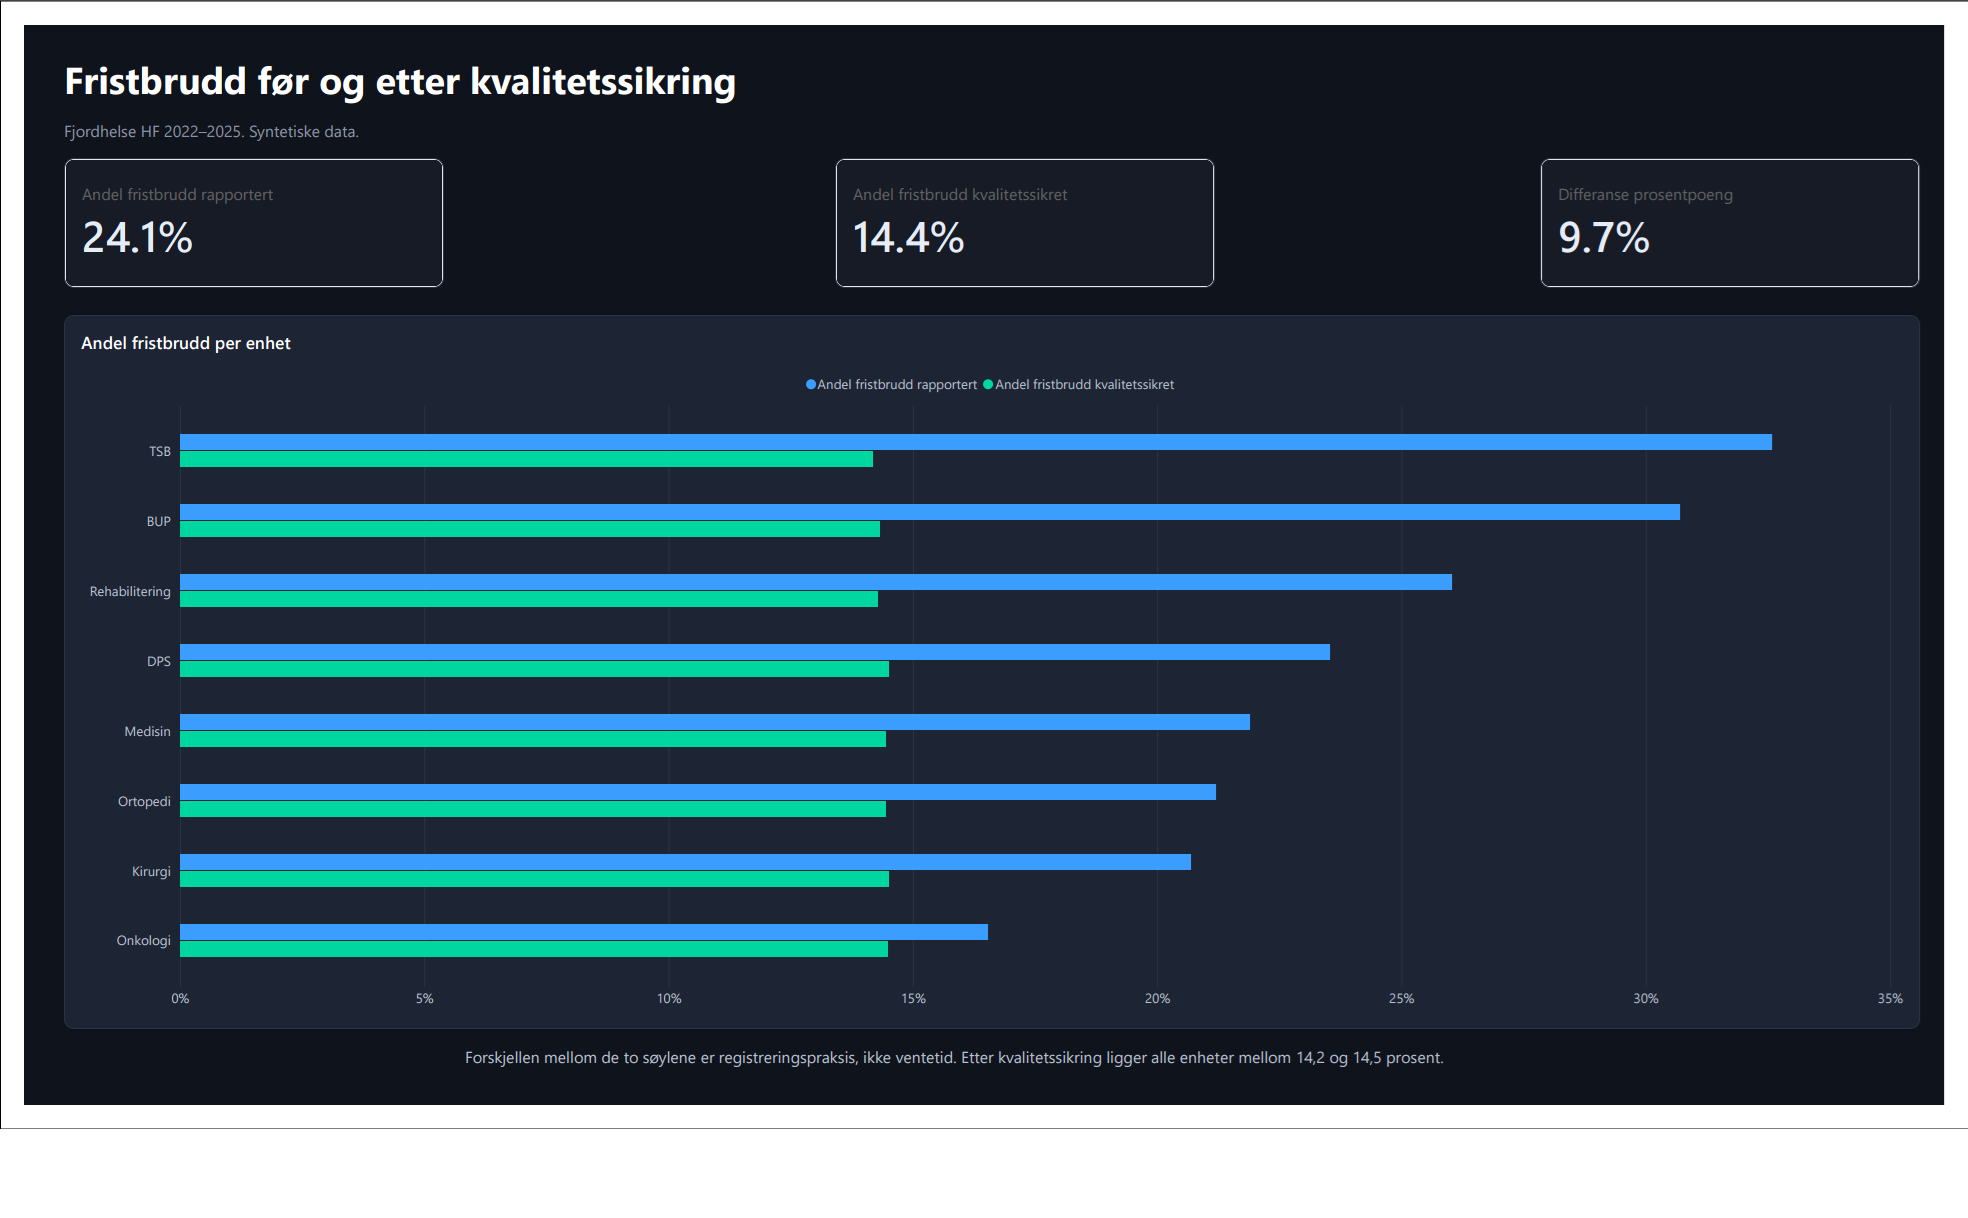
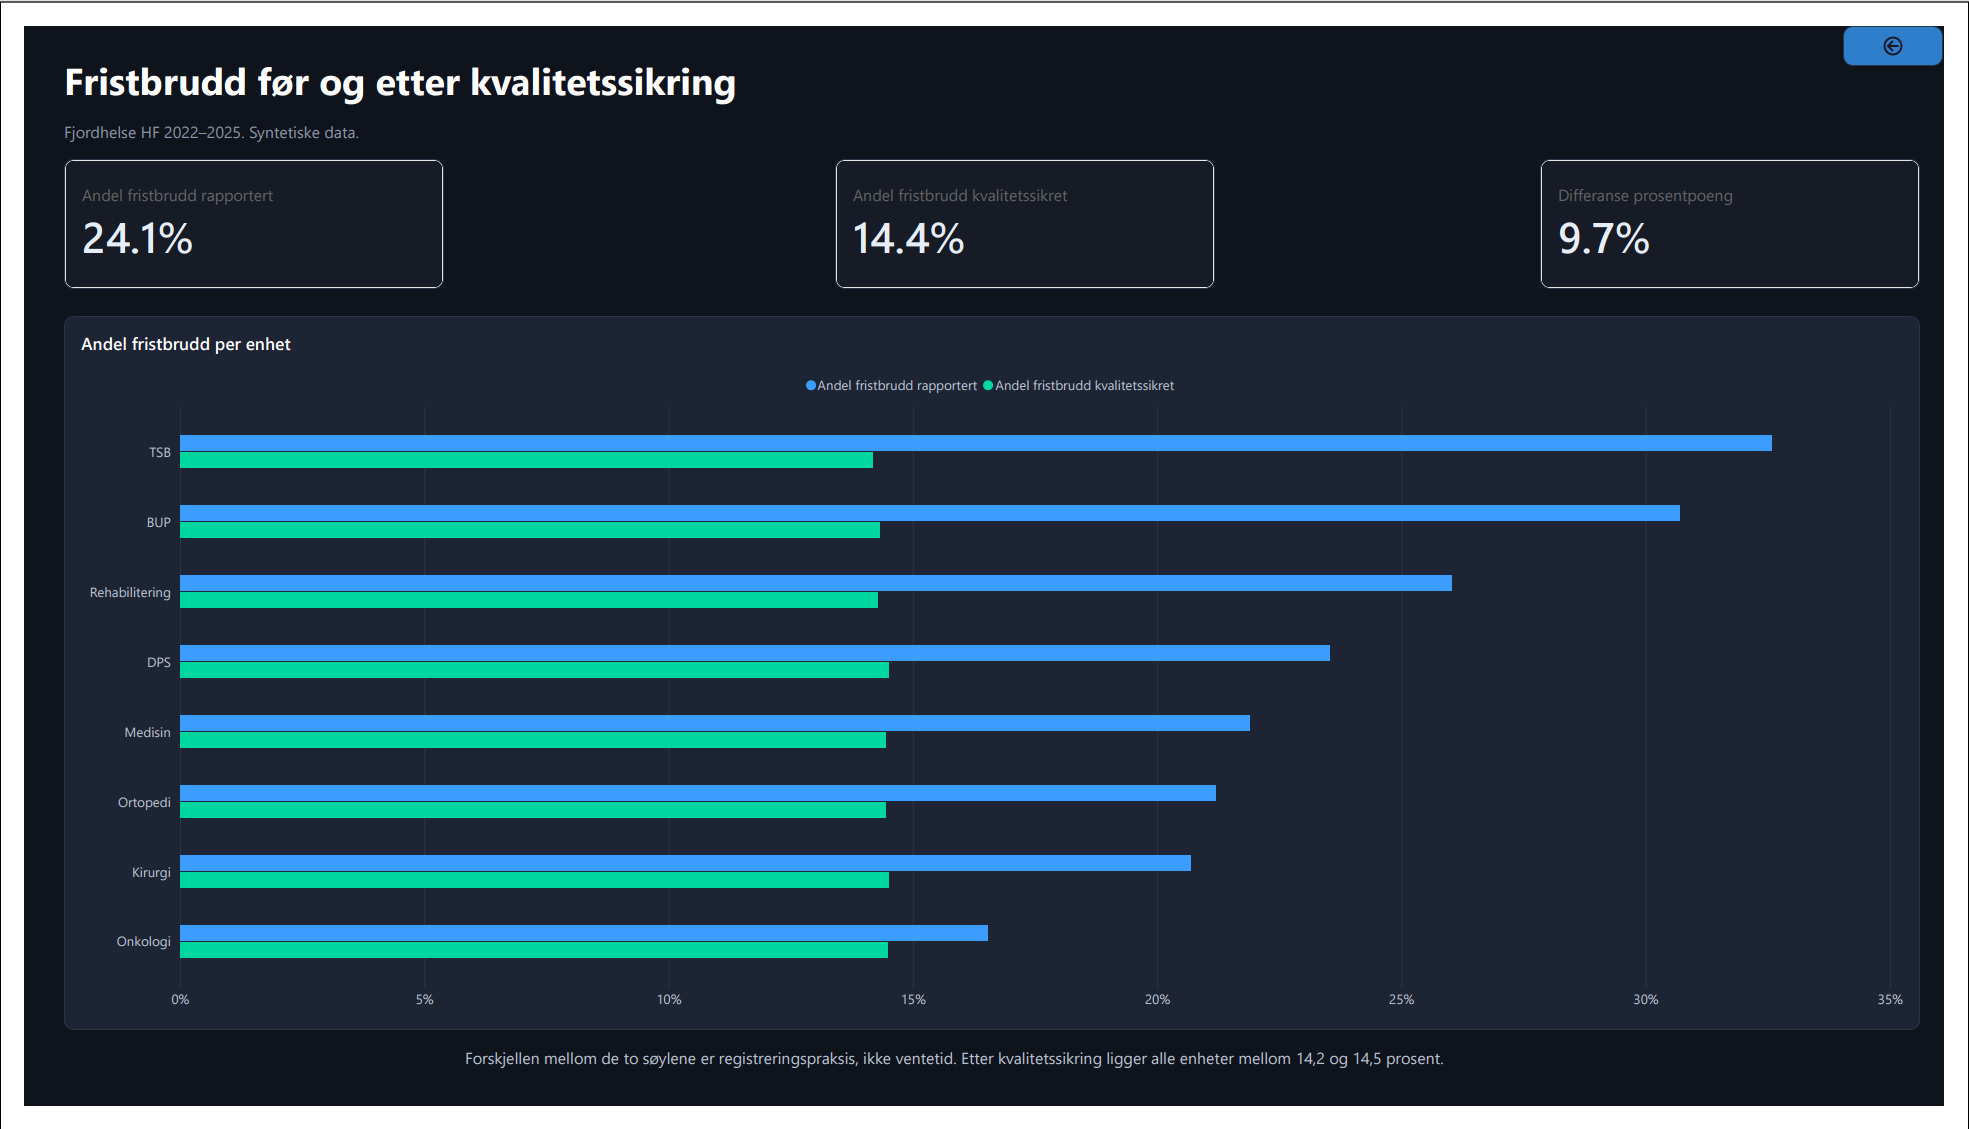
Ny README

diff --git a/README.md b/README.md
@@ -1,146 +1,206 @@
-# Datakvalitet i et fagsystem
+# Fjordhelse — datakvalitet i et fagsystem
 
-Porteføljeprosjekt. Viser hva bestemte registreringsfeil gjør med et
-styringstall, og hvordan feilene kan måles, testes og korrigeres.
+**Ni av ti fristbrudd finnes ikke.**
 
-**Dataene er syntetiske.** Det finnes ingen pasienter bak radene. De genereres
-av `src/generer_data.py` med fast seed, og feilene er lagt inn med vilje og i
-kjent omfang. Fasiten ligger i `data/raw/fasit.json`.
+Rapportert andel fristbrudd i Fjordhelse HF er 24,1 %. Etter kvalitetssikring av registreringsdataene er den 14,4 %. Forskjellen — 9,7 prosentpoeng, 42 489 henvisninger — er registreringspraksis, ikke ventetid.
 
-Dette er ikke en produksjonsløsning.
+Rangeringen mellom enhetene snur nesten fullstendig. TSB går fra å være verst (32,6 %) til å være best (14,2 %). Onkologi går fra best (16,5 %) til å ligge på nivå med de dårligste (14,5 %). En styringsbeslutning tatt på det rapporterte tallet ville pekt på feil enhet.
+
+![Oversikt](docs/bilder/side0_oversikt.png)
 
 ---
 
-## Funnet
+## Hva dette er
 
-Andelen fristbrudd i det fiktive foretaket Fjordhelse HF:
+Et porteføljeprosjekt som viser hele kjeden fra rådata til styringsinformasjon: syntetisk datagenerering, transformasjon i dbt, testing, semantisk modell og rapport i Power BI.
 
-| | Andel fristbrudd |
+Dataene er syntetiske. Det finnes ingen pasienter bak radene, og Fjordhelse HF finnes ikke. Feilene i datasettet er lagt inn med vilje og i kjent omfang, slik at analysen kan kontrolleres mot en fasit.
+
+**Dette er ikke en analyse av et virkelig foretak.** Tallene er konstruert for å vise en mekanisme, ikke for å beskrive en tilstand.
+
+---
+
+## Problemstillingen
+
+Et fagsystem inneholder 426 484 henvisninger fordelt på åtte enheter over perioden 2022–2025. Uttrekksdato er 15.01.2026.
+
+Seks feiltyper er lagt inn i registreringen:
+
+| Feiltype | Hva den gjør |
 |---|---|
-| Slik fagsystemet rapporterer | **24,1 %** |
-| Etter kvalitetssikring | **14,4 %** |
+| Duplikater | Samme henvisning registrert flere ganger |
+| Manglende sluttdato | Forløpet er avsluttet, men `ventetid_slutt` er aldri registrert |
+| Prioritet ikke vurdert | Feltet står på systemets standardverdi |
+| Avvikende enhetsnavn | Samme enhet skrevet på flere måter |
+| Tvetydig diagnosekode | Kode som har byttet betydning i kodeverket |
+| Årsskifte | Forløp som krysser årsskiftet og telles i feil periode |
 
-Forskjellen er 42 489 henvisninger. 40 886 av dem skyldes at «ventetid slutt»
-aldri ble registrert — pasienten er behandlet, men systemet regner forløpet
-som ventende. De øvrige 1 603 er duplikater fra overføring mellom enheter.
-
-Men hovedfunnet er ikke totalen. Det er rangeringen:
-
-| Enhet | Rapportert | Rang | Kvalitetssikret | Rang |
-|---|---|---|---|---|
-| TSB | 32,6 % | 1 (verst) | 14,2 % | 8 (best) |
-| BUP | 30,7 % | 2 | 14,3 % | 6 |
-| Rehabilitering | 26,0 % | 3 | 14,3 % | 6 |
-| DPS | 23,5 % | 4 | 14,5 % | 1 |
-| Medisin | 21,9 % | 5 | 14,4 % | 4 |
-| Ortopedi | 21,2 % | 6 | 14,4 % | 4 |
-| Kirurgi | 20,7 % | 7 | 14,5 % | 1 |
-| Onkologi | 16,5 % | 8 (best) | 14,5 % | 1 |
-
-Rangeringen snur nesten fullstendig. Enheten som ser verst ut er den som
-registrerer dårligst, ikke den som behandler seinest. Etter kvalitetssikring
-ligger alle åtte enhetene mellom 14,2 og 14,5 prosent — forskjellen mellom dem
-var aldri en forskjell i tjeneste.
-
-**Konsekvensen for styring:** et fristbruddtall brukt til å sammenligne enheter
-måler registreringspraksis minst like mye som ventetid. Brukes det uten
-kvalitetssikring, belønnes de enhetene som registrerer godt og straffes de som
-har minst merkantil støtte.
+Spørsmålet rapporten svarer på: **hvor mye av det rapporterte fristbruddet skyldes faktisk ventetid, og hvor mye skyldes hvordan det er registrert?**
 
 ---
 
-## De seks innebygde feilene
+## Metode
 
-| # | Feil | Kvalitetsdimensjon | Hvorfor den er realistisk |
-|---|---|---|---|
-| 1 | «Prioritet» utfylt med forvalgt verdi | Validitet | Feltet er obligatorisk, så det er alltid utfylt. Obligatorisk er ikke det samme som vurdert. |
-| 2 | Diagnosekode skifter betydning | Entydighet | R51 betyr noe annet etter revisjonen 01.07.2024. Koden alene er ikke en nøkkel. |
-| 3 | Duplikat ved overføring | Unikhet | Henvisningen opprettes på nytt i mottakende enhet uten at den første lukkes. |
-| 4 | «Ventetid slutt» ikke registrert | Kompletthet | Gir fristbrudd som ikke er reelle. Dokumentert problem i norsk spesialisthelsetjeneste. |
-| 5 | Registreringer klumper seg i romjula | Aktualitet | Tidspunktet sier mer om rapporteringsfrister enn om forløpet. |
-| 6 | Enhet skifter navn ved omorganisering | Konsistens | Koden er uendret. Kobling på navn mister radene. |
+### Definisjon av kvalitetssikret fristbrudd
 
-Feilratene skaleres per enhet. En liten enhet med lite merkantil støtte
-registrerer dårligere enn en enhet med tett forløpsoppfølging. Det er den
-antakelsen som gjør at rangeringen snur.
+Duplikater fjernes. En henvisning uten registrert sluttdato regnes ikke som fristbrudd dersom det finnes et registreringstidspunkt før fristen.
 
----
+Definisjonen er bevisst konservativ. Den krever bevis for kontakt før fristen, ikke fravær av bevis for det motsatte. Den fanger derfor ikke opp forløp der all registrering uteble — de teller fortsatt som fristbrudd.
 
-## Arkitektur
+### Kontroll mot fasit
 
-```
-src/generer_data.py      syntetisk datasett, fast seed, fasit.json med sha256
-        |
-data/raw/henvisninger.csv        426 484 rader
-        |
-src/last_inn_raa.py      inn i DuckDB som raa.henvisninger
-        |
-dbt/                     staging -> intermediate -> marts
-   staging               typing og opprydding, ingen forretningslogikk
-   intermediate          ett flagg per kjent feil, én rad per henvisning
-   marts                 fakta med fristbrudd regnet på to måter
-        |
-src/eksporter_mart.py    Parquet + CSV til Power BI
-        |
-powerbi/                 .pbip, semantisk modell som TMDL
-```
+`data/raw/fasit.json` inneholder det faktiske antallet innlagte feil per type, sammen med `sha256` av datafila. Analysen leser aldri fasiten. Den gjenskaper feilratene fra dataene alene, og resultatet sammenlignes med fasiten etterpå.
 
-Skillet mellom `intermediate` og `marts` er bevisst: først slås det fast hva
-som er galt med raden, deretter regnes tallet to ganger. Blandes stegene, kan
-ingen etterprøve forskjellen.
-
-## Testene
-
-41 tester kjører ved hvert bygg. Fire av dem er skrevet for dette prosjektet:
-
-- `assert_kvalitetssikring_reduserer_fristbrudd` — kvalitetssikring skal aldri
-  gi flere fristbrudd enn rårapporteringen. Slår den ut, har logikken snudd
-  fortegn.
-- `assert_ventetid_ikke_negativ` — ventetid slutt kan ikke ligge før
-  vurderingsdatoen.
-- `assert_ett_forlop_per_pasient_og_frist` — etter deduplisering skal én
-  pasient ha ett forløp per mottaksdato og frist.
-- `assert_alle_enheter_har_data` — en enhet som forsvinner ut av fakta er
-  nesten alltid en brutt nøkkel, ikke en enhet uten aktivitet.
-
-`assert_ventetid_ikke_negativ` fant en reell feil i generatoren under
-utviklingen: forløp som ikke rakk å bli ferdig innen uttrekksdatoen fikk
-sluttdatoen klippet til periodeslutt, noe som ga negativ ventetid for
-henvisninger mottatt i desember. Feilen er rettet ved at slike forløp regnes
-som pågående. Testen er beholdt.
+Det er kontrollen på at metoden virker — ikke at tallene er pene.
 
 ---
 
-## Slik kjører du det
+## Resultater
 
-```
-1_INSTALLER.bat     installerer Python-pakker, 1-3 minutter
-2_BYGG.bat          genererer data, bygger modellen, kjører 41 tester
-```
+| Enhet | Rapportert | Kvalitetssikret | Differanse |
+|---|---:|---:|---:|
+| TSB | 32,6 % | 14,2 % | 18,4 pp |
+| BUP | 30,7 % | 14,3 % | 16,4 pp |
+| Rehabilitering | 26,0 % | 14,3 % | 11,7 pp |
+| DPS | 23,5 % | 14,5 % | 9,0 pp |
+| Medisin | 21,9 % | 14,4 % | 7,5 pp |
+| Ortopedi | 21,2 % | 14,4 % | 6,8 pp |
+| Kirurgi | 20,7 % | 14,5 % | 6,2 pp |
+| Onkologi | 16,5 % | 14,5 % | 2,0 pp |
+| **Totalt** | **24,1 %** | **14,4 %** | **9,7 pp** |
 
-Forventet på slutten:
+Etter kvalitetssikring ligger samtlige enheter mellom 14,2 og 14,5 prosent. Spredningen på 16 prosentpoeng i det rapporterte tallet er i sin helhet registreringspraksis.
 
-```
-Done. PASS=41 WARN=0 ERROR=0 SKIP=0
-```
+De psykiske helsevernenhetene (TSB, BUP, DPS) og rehabilitering har lengst forløp og flest kontaktpunkter per pasient, og dermed flest anledninger til at en sluttregistrering uteblir. Onkologi har korte, tett oppfulgte forløp og nesten ingen avvik.
 
-Rådatafila på 100 MB ligger ikke i repoet. Den gjenskapes eksakt av
-generatoren, og `fasit.json` inneholder sha256 slik at gjenskapingen kan
-kontrolleres.
+![Fristbrudd per enhet](docs/bilder/side1_fristbrudd.png)
 
 ---
 
-## Kilder og lisens
+## Teknisk oppbygning
 
-Ingen eksterne data. Alt er generert.
+```
+data/raw/          syntetisk datasett + fasit.json
+dbt/               staging → intermediate → marts
+data/mart/         parquet + csv, klar for Power BI
+powerbi/           .pbip-prosjekt og tema.json
+docs/bilder/       skjermbilder av rapporten
+dokumentasjon/     funn og anbefalinger
+```
 
-Feilmønstrene er ikke oppdiktet. Ikke-reelle fristbrudd som følge av manglende
-registrering av «ventetid slutt», og variasjon i registreringspraksis mellom
-helseforetak, er begge dokumenterte problemstillinger i norsk
-spesialisthelsetjeneste.
+### Stack
+
+Python for datagenerering, dbt med DuckDB for transformasjon, Power BI Desktop i `.pbip`-format for rapport. Alt versjonskontrollert som tekst — også den semantiske modellen, som ligger i TMDL og dermed kan leses i en diff.
+
+### Datamodell
+
+Stjerneskjema med to faktatabeller på ulik granularitet:
+
+- `fact_henvisning` — én rad per henvisning (426 484 rader)
+- `fact_datakvalitet` — aggregert per enhet, måned og kvalitetsdimensjon
+
+Dimensjoner: `dim_enhet`, `dim_periode`, `dim_diagnose`, `dim_dato`.
+
+**To datotabeller.** `dim_periode` betjener `fact_datakvalitet`, som er aggregert per måned. `dim_dato` er en daglig, sammenhengende kalender (1 461 rader, 2022–2025) markert som date table, og betjener `fact_henvisning` på `henvisning_mottatt`. Tidsintelligens krever daglig granularitet — en månedstabell er ikke sammenhengende, og `SAMEPERIODLASTYEAR` returnerer tomt mot den.
+
+`dim_diagnose` er bevisst frakoblet. `diagnose_kode` er ikke unik: koden R51 finnes to ganger, gyldig til 30.06.2024 som «Hodepine» og fra 01.07.2024 som «Hodepine, uspesifisert». Oppslaget gjøres i dbt på kode *og* dato, ikke i den semantiske modellen.
+
+### Testing
+
+41 dbt-tester kjører ved hver build. I tillegg til generiske tester på nøkler og nullverdier finnes fire domenespesifikke:
+
+- `assert_alle_enheter_har_data` — ingen enhet forsvinner ut av datasettet
+- `assert_ett_forlop_per_pasient_og_frist` — ingen dupliserte forløp etter deduplisering
+- `assert_kvalitetssikring_reduserer_fristbrudd` — kvalitetssikret tall er aldri høyere enn rapportert
+- `assert_ventetid_ikke_negativ` — sluttdato kommer aldri før startdato
+
+### Semantisk modell
+
+Målene ligger i en egen tabell `_Mål`. Utvalgte definisjoner:
+
+**Andel avvik** — andeler kan ikke summeres. Målet deler summert teller på summert nevner:
+
+```dax
+Andel avvik =
+DIVIDE (
+    SUM ( fact_datakvalitet[antall_avvik] ),
+    SUM ( fact_datakvalitet[antall_rader] )
+)
+```
+
+**Simulering** — en what-if-parameter (0–100 %, steg 5 %) lar leseren stille spørsmålet «hva om sluttregistreringen forbedres?»:
+
+```dax
+Andel fristbrudd rapportert simulert =
+VAR Forbedring = [Forbedring i registrering Value]
+VAR IkkeReelle = [Fristbrudd rapportert] - [Fristbrudd kvalitetssikret]
+VAR NyeFristbrudd = [Fristbrudd rapportert] - ( IkkeReelle * Forbedring )
+RETURN
+DIVIDE ( NyeFristbrudd, [Antall henvisninger] )
+```
+
+Parameteren endrer ikke dataene. Den endrer forutsetningen målet regner med. Ved 0 % gir målet 24,1 %, ved 100 % gir det 14,4 % — grensene faller ut av logikken, de er ikke hardkodet.
+
+---
+
+## Rapporten
+
+Fire sider:
+
+| Side | Innhold |
+|---|---|
+| **Oversikt** | KPI-fliser med endring mot i fjor, sparklines per enhet, what-if-simulering |
+| **Fristbrudd** | Rangering per enhet, før og etter kvalitetssikring |
+| **Datakvalitet** | Matrise over seks feiltyper, tidsserie for manglende sluttregistrering |
+| **Metode og forbehold** | Definisjoner, datagrunnlag, begrensninger |
+
+![Datakvalitet](docs/bilder/side2_datakvalitet.png)
+
+Mørkt tema definert i `powerbi/tema.json`. Blå er alltid rapportert, grønn er alltid kvalitetssikret, rød er forbeholdt avvik. Fargene betyr det samme på alle fire sidene.
+
+---
+
+## Kjøre prosjektet
+
+```
+1_INSTALLER.bat
+2_BYGG.bat
+```
+
+Første fil installerer avhengigheter, andre genererer data og kjører hele dbt-pipelinen. Forventet resultat: `Done. PASS=41 WARN=0 ERROR=0 SKIP=0`.
+
+Åpne deretter `powerbi/Fjordhelse_Datakvalitet.pbip`. Parameteren `MartMappe` i Power Query må peke til `data/mart/` med skråstrek på slutten.
+
+Krever Python 3.10+ og Power BI Desktop med `.pbip`-format aktivert under Preview features.
+
+---
+
+## Fire feil som formet prosjektet
+
+Dokumentert fordi de er mer opplysende enn det som gikk bra.
+
+**`date_trunc` returnerer timestamp.** I DuckDB gir `date_trunc('month', d)` en timestamp, mens `cast(d as date)` gir en date. Samme kolonnenavn i to tabeller, to ulike typer, og relasjonen lar seg ikke opprette. Løses med to trinn i Power Query: Date/Time først, deretter Date.
+
+**Summerte andeler.** `andel_avvik_pst` summert over måneder ga 26 744 %. Andeler er ikke additive. Et mål må regne fra teller og nevner, ikke fra ferdig beregnede andeler.
+
+**Høyrekutting.** Tidsserien for manglende sluttregistrering steg mot 100 % gjennom høsten 2025. Ingen dbt-test fanget det, fordi dataene er korrekte: forløp mottatt sent er ikke ferdige på uttrekksdatoen. Manglende sluttdato er der reell, ikke en registreringsfeil. Tidsserien er derfor avgrenset til juni 2025, med det opplyst i undertittelen.
+
+En test kontrollerer at dataene er som forventet. En graf viser hva de faktisk betyr. Denne feilen kunne bare oppdages visuelt.
+
+**`DATESINPERIOD` fra månedsslutt.** `DATESINPERIOD(dim_dato[Date], DATE(2025,6,30), -1, MONTH)` returnerer 31.05–30.06 — altså én dag fra mai. Undertittelen sa «juni 2025». Erstattet med et filter på `maned_start`, som gir nøyaktig den måneden det står at det er.
+
+---
 
 ## Forbehold
 
-Dette er et porteføljeprosjekt på syntetiske data, ikke en produksjonsløsning
-og ikke en analyse av et virkelig foretak. Tallene er konstruert for å vise en
-mekanisme, ikke for å beskrive en tilstand.
+Med ekte data ville `registrert_tidspunkt` alene ikke vært godt nok bevis på pasientkontakt. Et fagsystem har flere spor — kontaktregistreringer, notater, prosedyrekoder — og en reell kvalitetssikring bør bruke dem samlet.
+
+Sammenligningen mot samme måned i fjor er tatt med for å vise tidsintelligens i modellen. På et syntetisk datasett med fast seed er den bevegelsen støy, ikke et funn.
+
+Definisjonen av kvalitetssikret fristbrudd er ett av flere mulige valg. Den er dokumentert i rapportens metodeside slik at den kan bestrides.
+
+---
+
+## Videre lesning
+
+`dokumentasjon/funn_og_anbefalinger.md` — utfyllende gjennomgang av funnene og hva de ville betydd i en reell styringssammenheng.
